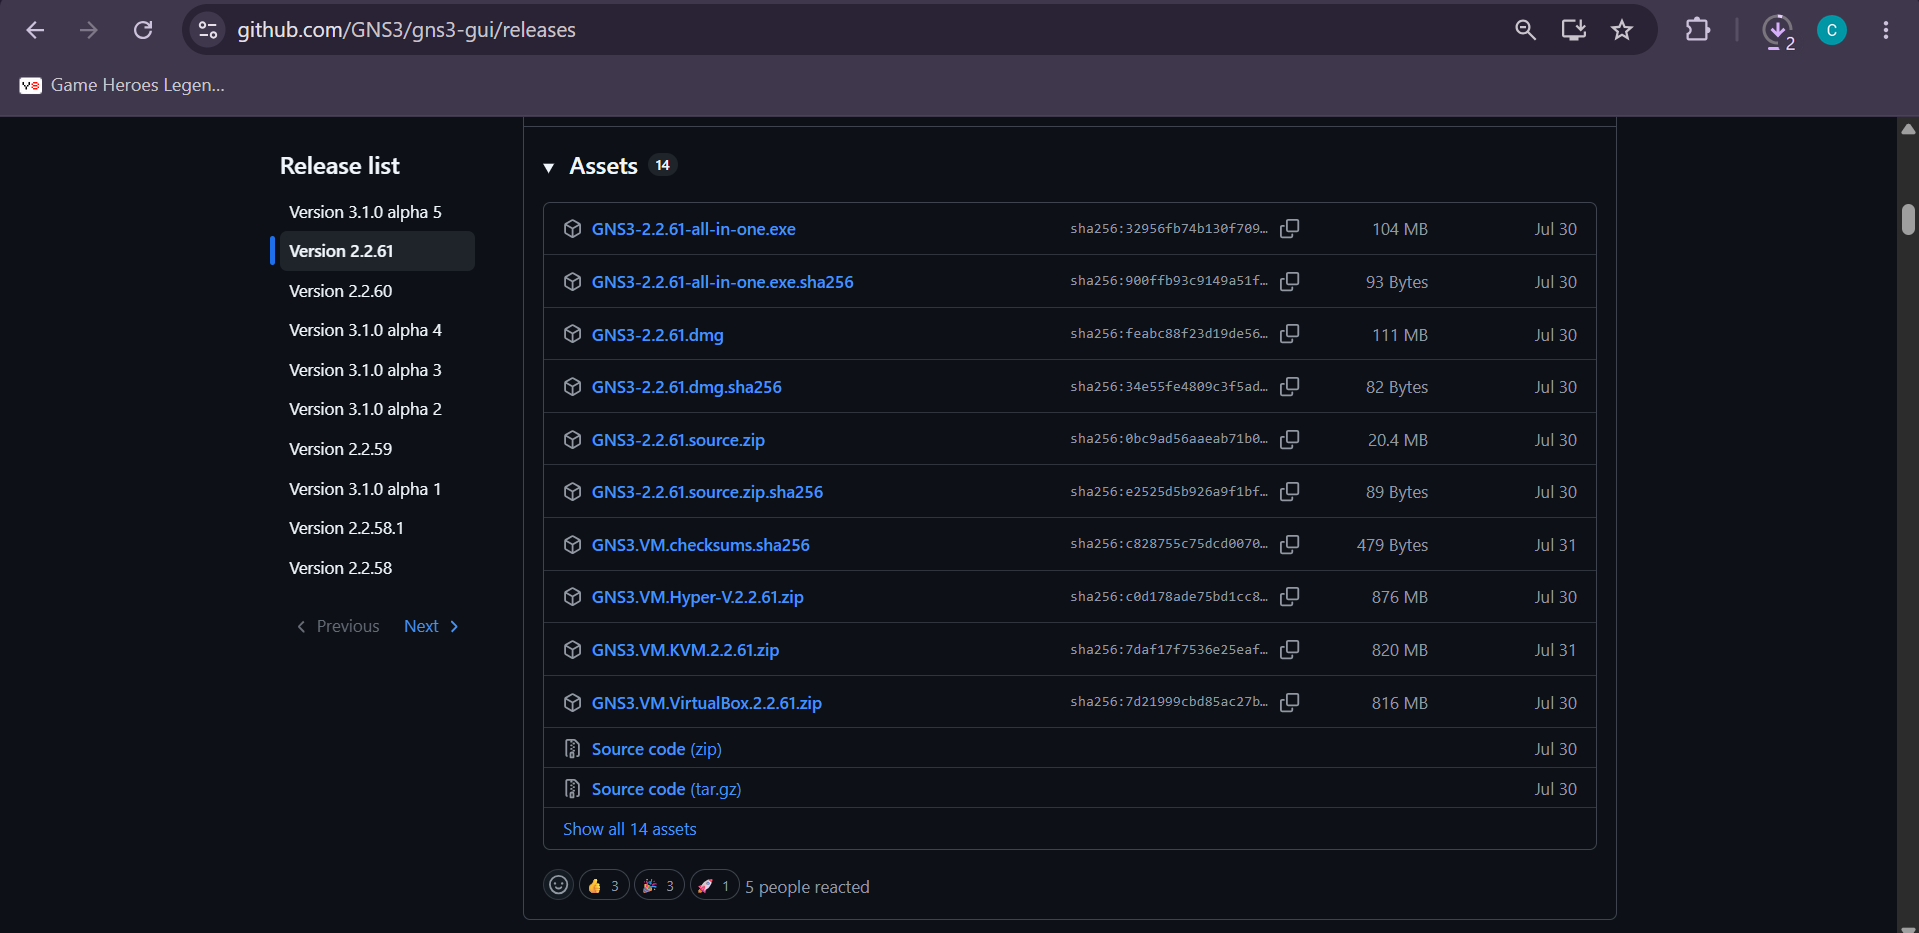
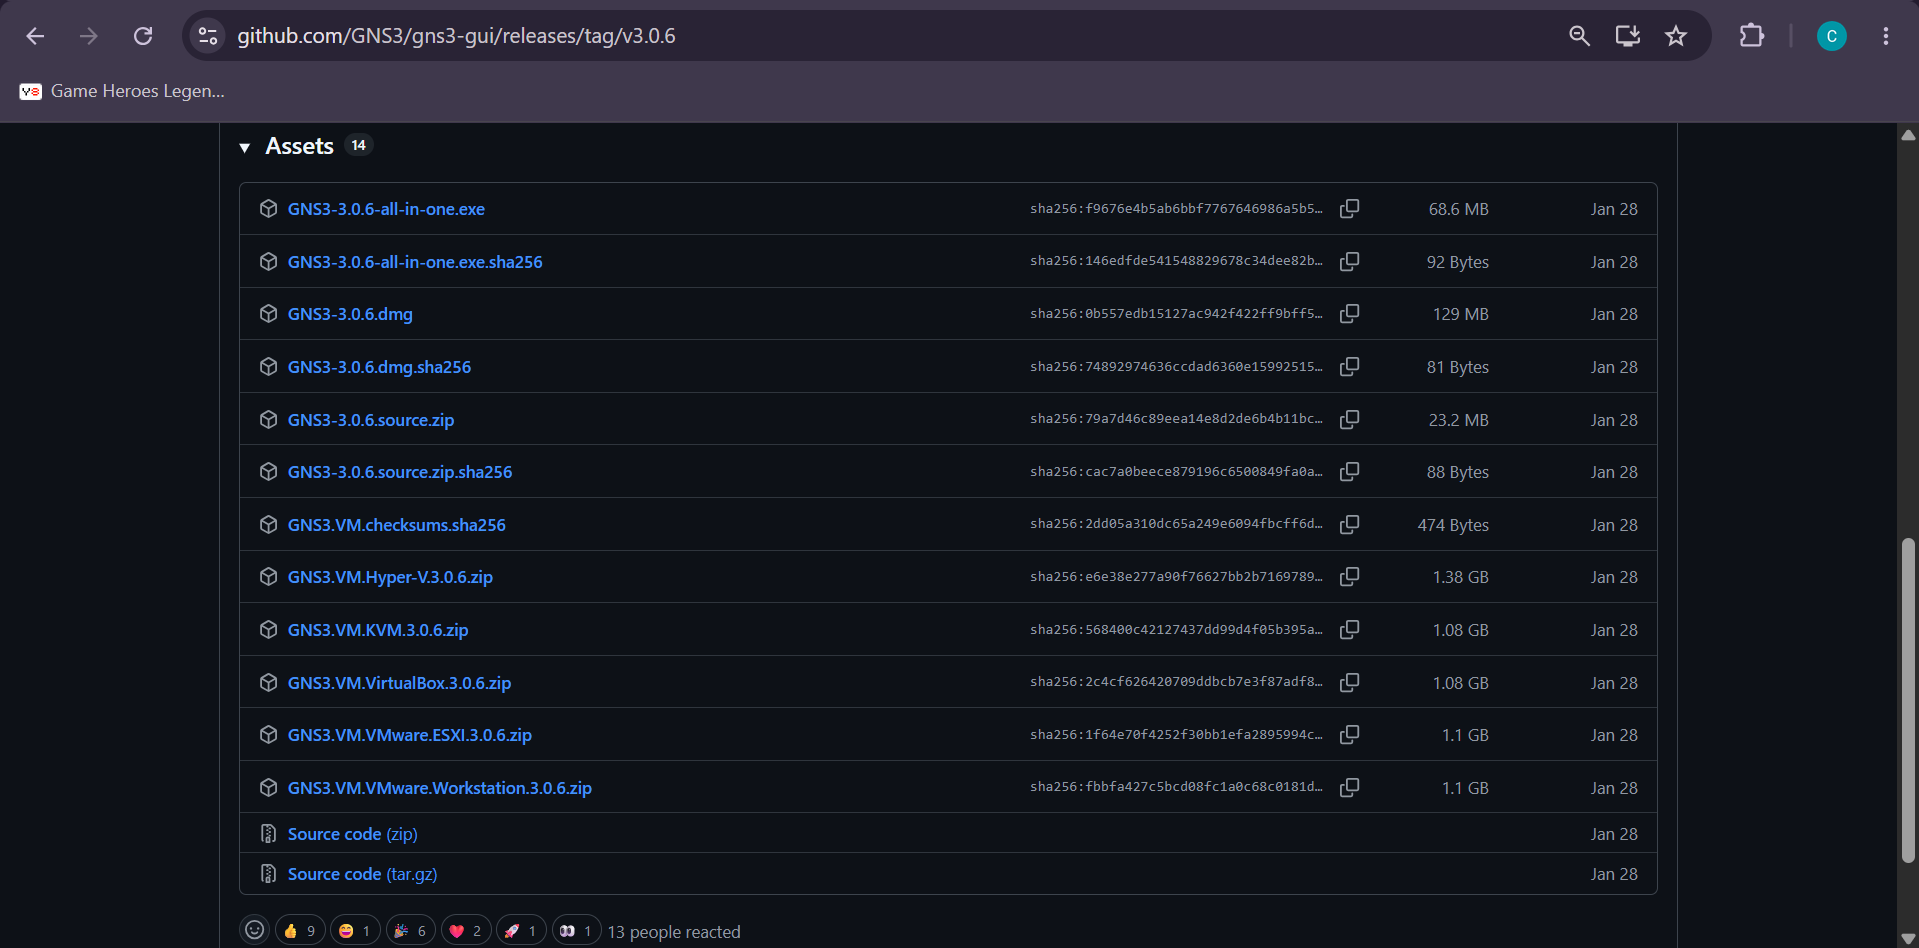
docs: add appliance and README-English.md

diff --git a/Modul-GNS3/README-English.md b/Modul-GNS3/README-English.md
@@ -1,0 +1,269 @@
+# GNS3 Introduction Module
+
+- [GNS3 Introduction Module](#gns3-introduction-module)
+  - [What is GNS3?](#what-is-gns3)
+  - [Installing VMware Workstation](#installing-vmware-workstation)
+  - [Installing GNS3 VM](#installing-gns3-vm)
+  - [Installing GNS3 GUI](#installing-gns3-gui)
+  - [Installing the netics-pc appliance](#installing-the-netics-pc-appliance)
+  - [Using GNS3](#using-gns3)
+    - [Setting Up IP on a Node](#setting-up-ip-on-a-node)
+    - [Connecting a Node to the Internet](#connecting-a-node-to-the-internet)
+    - [Creating a Topology](#creating-a-topology)
+
+<br>
+
+## What is GNS3?
+
+**GNS3 (Graphical Network Simulator-3)** is a tool that helps you run a simulation of anything from a small topology consisting of just a few devices on your computer all the way up to a topology with many devices hosted across multiple servers.
+
+<br>
+
+## Installing VMware Workstation
+1. Open the website https://support.broadcom.com/ and register a new account (using a personal email is recommended).
+2. Open the menu **VMware Cloud Foundation → My Downloads → Free Software Downloads** to access the list of software available for free.
+
+   ![Registration](images/vmware-1.png)
+
+   ![Download](images/vmware-2.png)
+
+3. Select the **VMware Workstation Pro** menu, then choose the version to be installed. For Windows, it is recommended to pick the latest **VMware Workstation Pro 17.0 for Windows** version.
+
+   ![VMware](images/vmware-3.png)
+
+   ![Version](images/vmware-4.png)
+
+4. Check the **Terms & Conditions** box, then fill out the screening data to start the installation process.
+
+   ![Form](images/vmware-5.png)
+
+<br>
+
+## Installing GNS3 VM
+1. Open the following GitHub link https://github.com/gns3/gns3-gui/releases?page=2#release-v3.0.6, then download the **GNS3-3.0.6-all-in-one.exe** and **GNS3.VM.VMware.Workstation.3.0.6.zip** files.
+
+   ![Releases](images/gns3-vm-1.png)
+
+2. Extract the **GNS3.VM.VirtualBox.2.2.61.zip** file that was downloaded.
+
+3. Open VMware Workstation, then select the menu **File → Open** and choose the **.ova** file from the extracted folder.
+
+   ![Import](images/gns3-vm-2.png)
+
+4. After the import process succeeds, turn on the virtual machine and wait until the IP address along with the GNS3 port appears. Note down that IP address and port, as both will be used to connect to the GNS3 GUI.
+
+   ![IP](images/gns3-vm-3.png)
+
+5. If you run into an issue when turning on the virtual machine, open the **Settings → Processors** menu, then uncheck the **Virtualize Intel VT-x/EPT or AMD-V/RVI** option.
+
+   ![Processor](images/gns3-vm-4.png)
+
+<br>
+
+## Installing GNS3 GUI
+1. Run the GNS3 **.exe** file that was downloaded, then follow the installation process until it finishes.
+
+2. Open the menu **Edit → Preferences → Server → Remote servers**, then fill in the **Host** and **Port** fields with the IP address and port obtained from the GNS3 VM earlier.
+
+   ![Preferences](images/gns3-gui-1.png)
+
+   ![Host](images/gns3-gui-2.png)
+
+3. To start a new project, select the menu **File → New blank project**.
+
+<br>
+
+## Installing the netics-pc appliance
+1. Select the menu **File → New Template**.
+
+   ![Template](images/netics-pc-appliance-1.png)
+
+2. Choose the **Import an appliance file** option, then select the **netics-alpinet.gns3a** file that was downloaded. The **netics-alpinet.gns3a** file can you get from [here](netics-pc-alpinet\netics-alpinet.gns3a)
+
+   ![Appliance](images/netics-pc-appliance-2.png)
+
+3. Choose the **Install appliance on a remote server** option.
+
+   ![Remote](images/netics-pc-appliance-3.png)
+
+4. Drag and drop the **netics-pc** appliance onto an empty area to try it out.
+
+   ![Netics](images/netics-pc-appliance-4.png)
+
+<br>
+
+## Using GNS3
+
+### Setting Up IP on a Node
+1. Right-click on the node and open `Configure`
+2. In the `General settings` menu, look for the `Edit network configuration` button
+3. There you can set up the IP according to the interface being used. An interface is what is used to connect two devices
+
+### Connecting a Node to the Internet
+
+1. Drag NAT into an empty area
+2. Connect NAT to the netics-pc with a link
+
+   ![NAT](images/using-internet-1.png)
+
+3. Click the **Show/Hide interface labels** menu to display the node's interface information
+
+   ![Interface](images/using-internet-2.png)
+
+4. Then click the node, select the `eth0` interface, and click the NAT node you dragged earlier
+
+   ![Connection](images/using-internet-3.png)
+
+5. Then configure the IP of the netics-pc node
+
+- Look for the 2 lines that look like this
+
+```
+# auto eth0
+# iface eth0 inet dhcp
+```
+
+- Uncomment both lines, then save
+
+```
+auto eth0
+iface eth0 inet dhcp
+```
+
+6. Start the node
+7. Access the console of the node, and try pinging Google; if it succeeds, your settings are correct
+
+   ![Ping](images/using-internet-4.png)
+
+8. This node will later be used as the router for this module; rename this node to `Foosha` using the `Change hostname` feature on the node, and also change the symbol to the router symbol using the `Change symbol` feature
+
+<br>
+
+### Creating a Topology
+
+1. Add a few ethernet switch and ubuntu nodes, then create connections between the nodes and name the nodes to match the picture
+
+   ![Topology](images/create-topology-1.png)
+
+2. Use the `Change hostname` feature to rename the nodes
+3. Then we configure the network of each node using the `Edit network configuration` feature as shown [here](#setting-up-ip-on-a-node) earlier; we can delete all the existing settings and fill in the settings below
+
+- Foosha
+
+```
+auto eth0
+iface eth0 inet dhcp
+
+auto eth1
+iface eth1 inet static
+	address [IP Prefix].1.1
+	netmask 255.255.255.0
+
+auto eth2
+iface eth2 inet static
+	address [IP Prefix].2.1
+	netmask 255.255.255.0
+```
+
+- Loguetown
+
+```
+auto eth0
+iface eth0 inet static
+	address [IP Prefix].1.2
+	netmask 255.255.255.0
+	gateway [IP Prefix].1.1
+```
+
+- Alabasta
+
+```
+auto eth0
+iface eth0 inet static
+	address [IP Prefix].1.3
+	netmask 255.255.255.0
+	gateway [IP Prefix].1.1
+```
+
+- EniesLobby
+
+```
+auto eth0
+iface eth0 inet static
+	address [IP Prefix].2.2
+	netmask 255.255.255.0
+	gateway [IP Prefix].2.1
+```
+
+- Water7
+
+```
+auto eth0
+iface eth0 inet static
+	address [IP Prefix].2.3
+	netmask 255.255.255.0
+	gateway [IP Prefix].2.1
+```
+
+**Definition Explanation**
+
+- **Gateway**: The path in a network that data packets must pass through in order to reach another network.
+
+4. Restart all nodes
+5. Check whether all the ubuntu nodes have the IP corresponding to the settings using the `ip a` command. Below is an example for the `Foosha` node with IP Prefix `10.105`; adjust it to match your group's IP Prefix
+
+   ![Foosha](images/create-topology-2.png)
+
+6. The topology you created can already run locally, but we cannot reach external networks yet. So we need to do a few things.
+- Install the iptables tool
+  ```
+  apk update
+  apk add iptables
+  ```
+- Type **`iptables -t nat -A POSTROUTING -o eth0 -j MASQUERADE -s [IP Prefix].0.0/16`** on the `Foosha` router
+  **Notes:**
+  - **iptables:** iptables is a tool in the Linux operating system that functions as a filter against data traffic. With iptables we manage all traffic in the computer, whether incoming, outgoing, or merely passing through our computer. This will be discussed in more detail in Module 5.
+  - **NAT (Network Address Translation):** A method of translating network addresses used to connect more than one computer to the internet using a single IP address.
+  - **Masquerade:** Used to disguise packets, for example by replacing the sender address with the router's address.
+  - **-s (Source Address):** A specification for the source. The address can be a network name, a host name, or an IP address.
+- Type the command `cat /etc/resolv.conf` on `Foosha`
+
+  ![Resolv](images/create-topology-3.png)
+
+- Remember that IP because that IP is the DNS IP, then type the following command on the other ubuntu nodes `echo nameserver [DNS IP] > /etc/resolv.conf`. In the example case the command would be `echo nameserver 192.168.153.2 > /etc/resolv.conf`.
+- Below is an example of pinging before and after adding the nameserver on the Water7 node
+
+  ![Nameserver](images/create-topology-4.png)
+
+- All nodes should now be able to ping Google, which means they are connected to the internet
+
+<br>
+
+## Requirements
+
+- Practitioners are **only** allowed to use the **netics-alpinet.gns3a** appliance
+
+<br>
+
+## Warnings, Advice, Tips, and Tricks
+
+- Whatever is installed on a node is **not persistent**, meaning that when you work on that project again you will need to reinstall the application
+- Therefore, **always** save the node's config to the `/root` directory before leaving the project
+- You can put the command you always want to run on that node into the `/root/.bashrc` file, at the very bottom. (Example: the iptables and echo nameserver commands from earlier)
+
+  ![Bashrc](images/tips-trick-1.png)
+
+- Besides `/root/.bashrc`, you can add a startup script by placing the command in the `network config`, preceded by the word `up`, as in the following example:
+
+  ![Network](images/tips-trick-2.png)
+
+- You can export the project when working as a team by going to the `File` menu -> `Export portable project`
+- If you are working using a VM on your own local machine, you can prevent losing applications or config files by turning off the VM in save state mode.
+- Take advantage of bash scripting to install all the required applications so you don't have to enter commands one by one, then save them to `/root`.
+- It is not recommended to use GNS3 on WSL or on Windows (GUI) _*if you run into problems, solve them yourself*_
+- Something that normally works suddenly stopped working? Try turning off the VM first, then turning it back on. Still not working? Try another GNS3 installation method before asking the assistants.
+- Can't install using one method? Try another installation method first before asking the assistants.
+
+## Sources
+
+- https://docs.gns3.com/docs/

diff --git a/Modul-GNS3/README.md b/Modul-GNS3/README.md
@@ -40,7 +40,7 @@
 <br>
 
 ## Instalasi GNS3 VM
-1. Buka tautan GitHub berikut https://github.com/GNS3/gns3-gui/releases, lalu unduh file **GNS3-2.2.61-all-in-one.exe** dan **GNS3.VM.VirtualBox.2.2.61.zip**.
+1. Buka tautan GitHub berikut https://github.com/gns3/gns3-gui/releases?page=2#release-v3.0.6, lalu unduh file **GNS3-3.0.6-all-in-one.exe** dan **GNS3.VM.VMware.Workstation.3.0.6.zip**.
 
    ![Releases](images/gns3-vm-1.png)
 
@@ -78,7 +78,7 @@
 
    ![Template](images/netics-pc-appliance-1.png)
 
-2. Pilih opsi **Import an appliance file**, lalu pilih berkas **netics-alpinet.gns3a** yang telah diunduh.
+2. Pilih opsi **Import an appliance file**, lalu pilih berkas **netics-alpinet.gns3a** yang telah diunduh. Untuk berkas **netics-alpinet.gns3a** bisa anda dapatkan dari [sini](netics-pc-alpinet\netics-alpinet.gns3a)
 
    ![Appliance](images/netics-pc-appliance-2.png)
 
